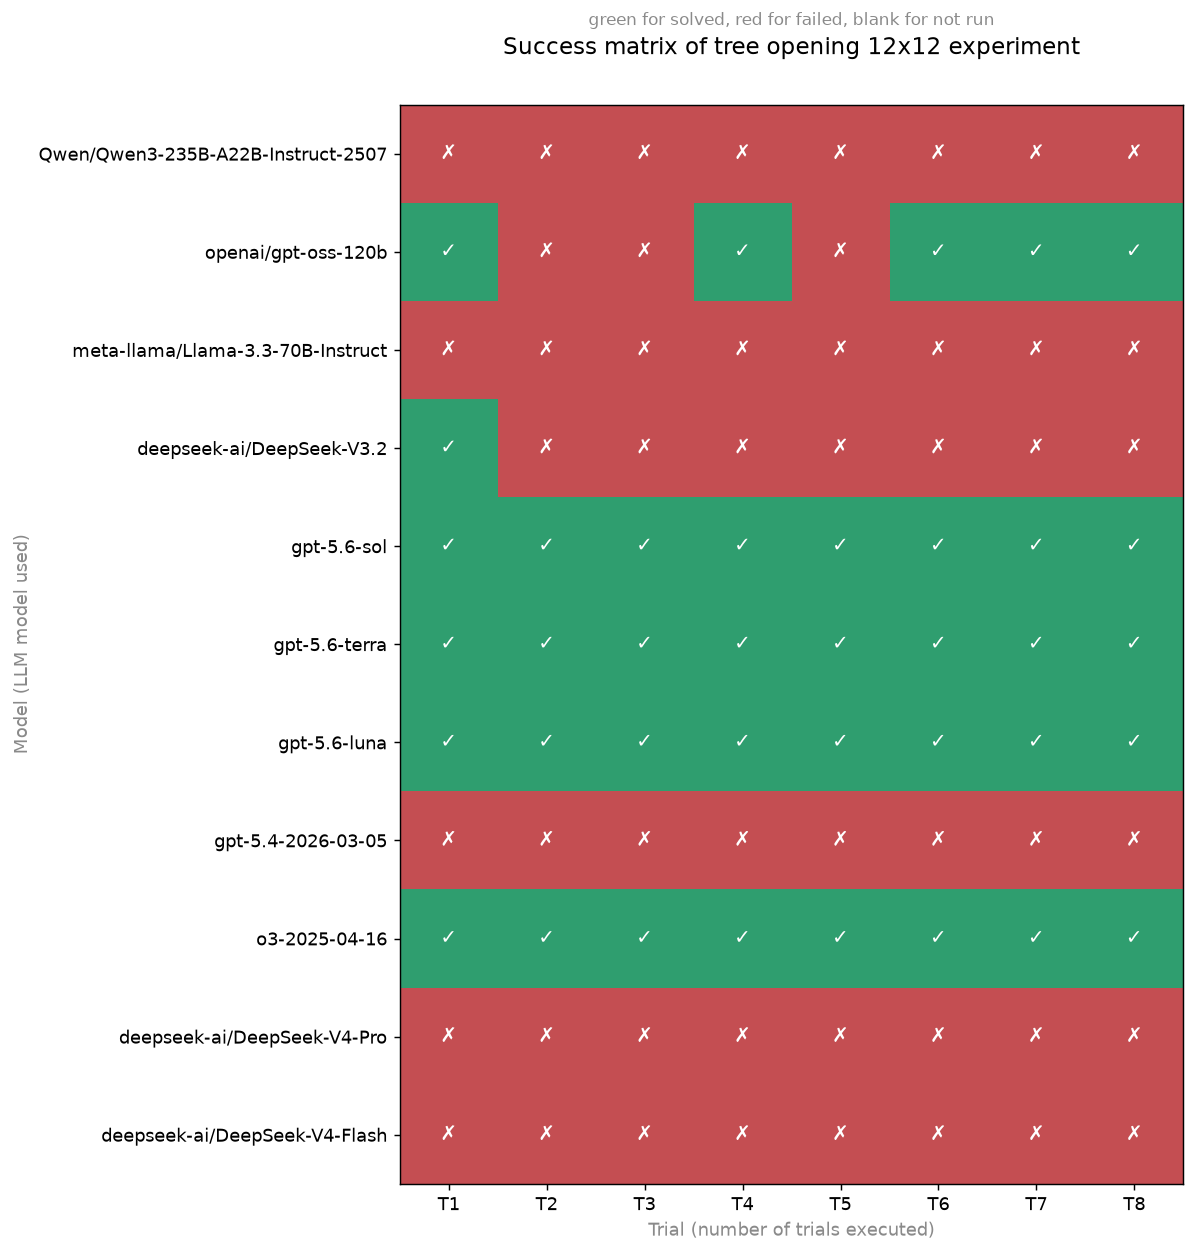
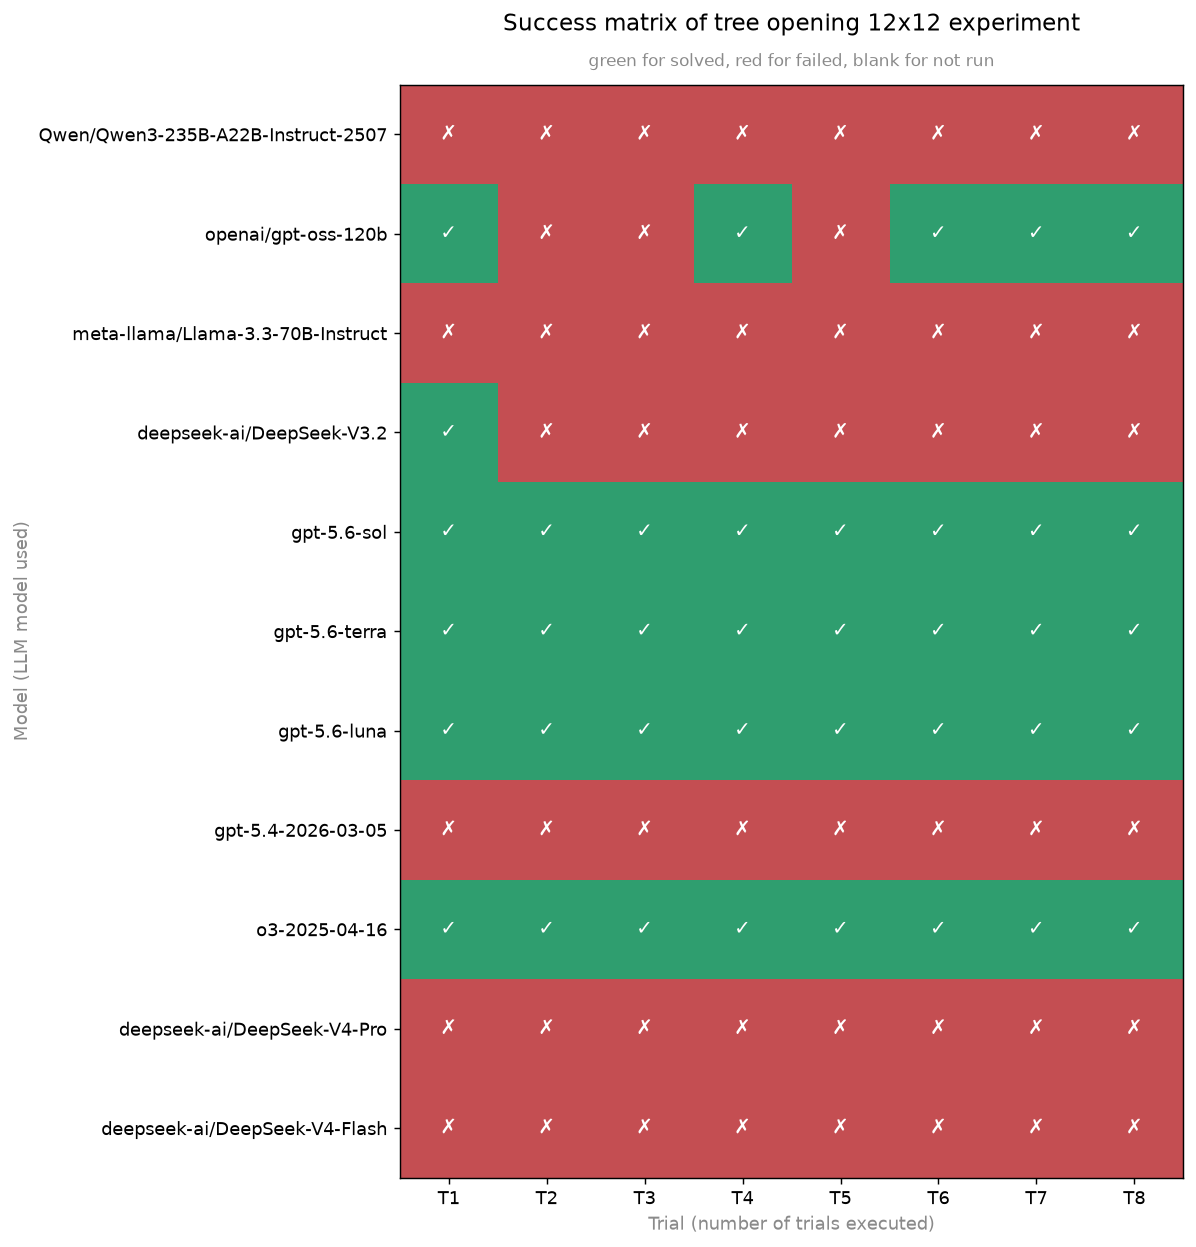
Refactor success matrix plotting: update title padding and replace text with annotation for better layout Remove unused delete_graphs API endpoint and adjust downloadAllGraphs function to retain plot images after download

diff --git a/analyze_results.py b/analyze_results.py
@@ -147,9 +147,15 @@ def plot_success_matrix(rows, out, experiment_name):
                     ha="center", va="center", color="white", fontsize=11)
     ax.set_xlabel("Trial (number of trials executed)", color=LABEL_GRAY, fontsize=10)
     ax.set_ylabel("Model (LLM model used)", color=LABEL_GRAY, fontsize=10)
-    ax.set_title(f"Success matrix of {experiment_name} experiment", fontsize=13, pad=28)
-    ax.text(0.5, 1.07, "green for solved, red for failed, blank for not run",
-            transform=ax.transAxes, ha="center", va="bottom", fontsize=9.5, color=LABEL_GRAY)
+    ax.set_title(f"Success matrix of {experiment_name} experiment", fontsize=13, pad=30)
+    # Anchored with a fixed point offset (not an axes-fraction y like 1.07) so
+    # it always lands just above the axes and below the title's own pad,
+    # regardless of how tall the figure is (many-model runs made the old
+    # fraction-based offset grow past the title's pad and render above it).
+    ax.annotate("green for solved, red for failed, blank for not run",
+                xy=(0.5, 1.0), xycoords="axes fraction",
+                xytext=(0, 8), textcoords="offset points",
+                ha="center", va="bottom", fontsize=9.5, color=LABEL_GRAY)
     fig.tight_layout()
     fig.savefig(out, dpi=130, bbox_inches="tight")
     plt.close(fig)
@@ -234,9 +240,11 @@ def _plot_trial_grid(details, num_trials, out, *, value_key, keep_success,
                     color=text_colour, fontsize=10)
     ax.set_xlabel("Trial (number of trials executed)", color=LABEL_GRAY, fontsize=10)
     ax.set_ylabel("Model (LLM model used)", color=LABEL_GRAY, fontsize=10)
-    ax.set_title(title, fontsize=13, pad=28)
-    ax.text(0.5, 1.07, subtitle, transform=ax.transAxes, ha="center", va="bottom",
-            fontsize=9.5, color=LABEL_GRAY)
+    ax.set_title(title, fontsize=13, pad=30)
+    # Fixed point offset, not an axes-fraction y - see plot_success_matrix for why.
+    ax.annotate(subtitle, xy=(0.5, 1.0), xycoords="axes fraction",
+                xytext=(0, 8), textcoords="offset points",
+                ha="center", va="bottom", fontsize=9.5, color=LABEL_GRAY)
     cbar = fig.colorbar(im, ax=ax, fraction=0.046, pad=0.04)
     cbar.set_label(cbar_label, color=LABEL_GRAY, fontsize=10)
     cbar.ax.tick_params(colors=LABEL_GRAY, labelsize=8)

diff --git a/studio.py b/studio.py
@@ -389,9 +389,6 @@ class Handler(BaseHTTPRequestHandler):
             if p == "/api/run/delete":
                 status, result = self._delete_run(self._body().get("run", ""))
                 return self._send(status, result)
-            if p == "/api/run/delete_graphs":
-                status, result = self._delete_graphs(self._body().get("run", ""))
-                return self._send(status, result)
             return self._send(404, {"error": "unknown route"})
         except Exception as exc:
             LOG.exception("POST %s failed", p)
@@ -601,22 +598,6 @@ class Handler(BaseHTTPRequestHandler):
         if run_dir.parent != RUNS_DIR.resolve():
             return None
         return run_dir
-
-    def _delete_graphs(self, run_name: str) -> tuple[int, dict]:
-        """Delete only a run's plot images, leaving results.json and videos
-        (and so the run itself) intact - unlike _delete_run, which removes
-        the whole run folder.
-        """
-        run_dir = self._run_dir(run_name)
-        if run_dir is None:
-            return 400, {"ok": False, "error": "invalid run name"}
-        if not run_dir.exists():
-            return 404, {"ok": False, "error": "not found"}
-        plots = run_dir / "plots"
-        if plots.exists():
-            for f in plots.glob("*.png"):
-                f.unlink()
-        return 200, {"ok": True}
 
     def _delete_run(self, run_name: str) -> tuple[int, dict]:
         """Delete a run's whole folder (results.json/plots/videos) directly.

diff --git a/studio_ui.py b/studio_ui.py
@@ -816,9 +816,9 @@ async function regenGraphs(){const name=$('runPick').value;
   toast('Regenerating\u2026');const r=await api('/api/analyze','POST',{run:name});
   if(!r.ok){toast('Error: '+r.error,'err');return;}
   await loadRuns(); $('runPick').value=name; showRun(); toast('Graphs regenerated','ok');}
-// Download-all: regenerate the graphs so the zip is current, download every
-// plot as one zip, then delete just the plot images (not the run itself -
-// results.json/videos stay, so the run keeps showing up here and in Videos).
+// Download-all: regenerate the graphs so the zip is current, then download
+// every plot as one zip. The plots stay on disk afterward - downloading a
+// copy shouldn't empty out what's showing on this page.
 async function downloadAllGraphs(){
   const name=$('runPick').value;
   if(!name){toast('Pick a run first','err');return;}
@@ -837,10 +837,7 @@ async function downloadAllGraphs(){
     const a=document.createElement('a');a.href=url;a.download=name+'_graphs.zip';
     document.body.appendChild(a);a.click();a.remove();
     URL.revokeObjectURL(url);
-    const dr=await api('/api/run/delete_graphs','POST',{run:name});
-    if(!dr.ok){toast('Error deleting graphs: '+dr.error,'err');return;}
-    await loadRuns(); $('runPick').value=name; showRun();
-    toast('Graphs downloaded and deleted','ok');
+    toast('Graphs downloaded','ok');
   } finally {
     btn.disabled=!$('runPick').value;
   }
